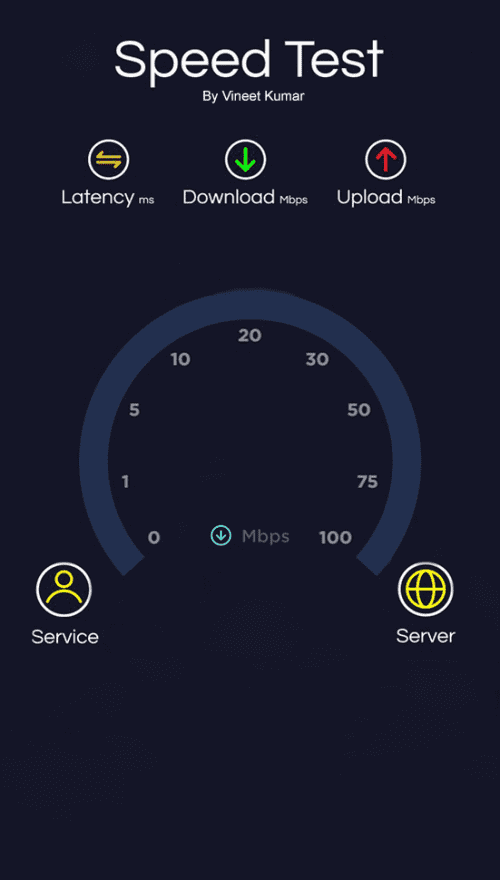
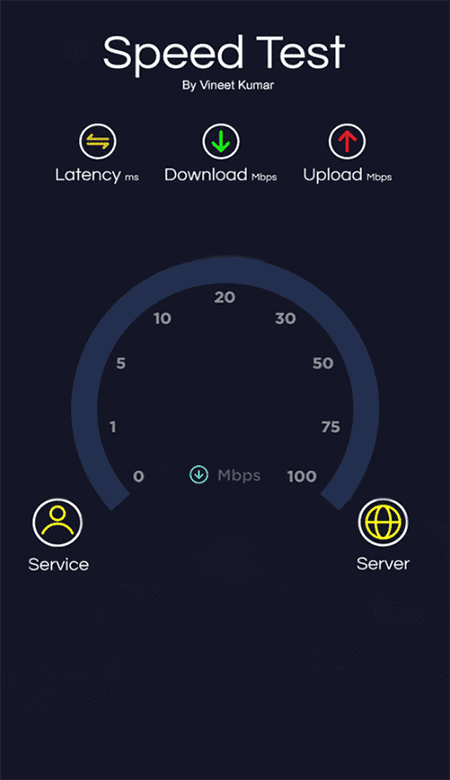
Added readme Updated dimensions

diff --git a/speed_test.py b/speed_test.py
@@ -8,8 +8,8 @@ root.resizable(False, False)  # can't rescale the window
 root.configure(bg="#141527")  # set dark background color
 
 # Dimensions for the Window
-w = 500
-h = 800
+w = 450
+h = 700
 
 # Code to get coordinates to place window at center
 ws = root.winfo_screenwidth()
@@ -23,7 +23,7 @@ root.geometry("%dx%d+%d+%d" % (w, h, x, y))  # place the window 'root'
 def Test():
     def run_speed_test():
 
-        Download.config(text = "Loading")
+        Download.config(text="Loading")
 
         test = speedtest.Speedtest()
         servernames = []
@@ -85,7 +85,7 @@ Test_Button = Button(
     cursor="hand2",
     command=Check,
 )
-Test_Button.place(x=148, y=580)
+Test_Button.place(x=125, y=510)
 
 Reset_Image = PhotoImage(file="./images/reset.png")
 Reset_Button = Button(
@@ -97,27 +97,28 @@ Reset_Button = Button(
     cursor="hand2",
     command=Reset,
 )
-Reset_Button.place(x=215, y=665)
+Reset_Button.place(x=190, y=600)
 
 
 # Labels to show values
 ping = Label(root, text="--", font="arial 20", bg="#141527", fg="#e9b342")
-ping.place(x=110, y=240, anchor="center")
+ping.place(x=100, y=215, anchor="center")
 
 download = Label(root, text="--", font="arial 20", bg="#141527", fg="#0cf107")
-download.place(x=250, y=240, anchor="center")
+download.place(x=225, y=215, anchor="center")
 
 upload = Label(root, text="--", font="arial 20", bg="#141527", fg="#e61c25")
-upload.place(x=390, y=240, anchor="center")
+upload.place(x=350, y=215, anchor="center")
 
 Download = Label(root, text="--", font="arial 30", bg="#141527", fg="#00FFFF")
-Download.place(x=250, y=480, anchor="center")
+Download.place(x=225, y=430, anchor="center")
 
 service = Label(root, text="- - -", font="arial 12", bg="#141527", fg="white")
-service.place(x=65, y=670, anchor="center")
+service.place(x=55, y=590, anchor="center")
 
-ip = Label(root, text="- - - - - - - -", font="arial 12", bg="#141527", fg="white")
-ip.place(x=425, y=670, anchor="center")
+ip = Label(root, text="- - - - - - - -",
+           font="arial 12", bg="#141527", fg="white")
+ip.place(x=380, y=590, anchor="center")
 
 
 root.mainloop()

diff --git a/README.md b/README.md
@@ -1,0 +1,89 @@
+# Internet Speed Test - Python Application
+
+Test and monitor your internet speed with this Python application. Check your ping, download, and upload speeds easily. Get started quickly with this simple tool.
+
+![Internet Speed Test](https://drive.google.com/uc?id=1TlFnkX_u3q1OB2WsZ2ZzqxsVIdO03YV6)
+
+## Table of Contents
+
+- [Introduction](#introduction)
+- [Features](#features)
+- [Getting Started](#getting-started)
+- [Usage](#usage)
+- [Technologies Used](#technologies-used)
+- [Contributing](#contributing)
+
+## Introduction
+
+The Internet Speed Test Python application allows you to check your internet connection's performance quickly. It measures your ping, download, and upload speeds, helping you ensure that your internet is running at its best.
+
+## Features
+
+- Measure your ping, download, and upload speeds.
+- Easy-to-use interface for quick speed checks.
+
+## Getting Started
+
+To get started with this project, follow these steps:
+
+### Prerequisites
+
+- Python installed on your system.
+- Required Python library: Speedtest-cli.
+
+### Installation
+
+### 1. Get Source Code Files
+#### Option 1: Clone Repository
+
+- If you have Git installed, you can clone the repository using the following command:
+
+  ```bash
+  git clone https://github.com/your-username/Internet-Speed-Test.git
+  ```
+
+- After cloning, navigate to the project directory:
+
+  ```bash
+  cd Internet-Speed-Test
+  ```
+
+#### Option 2: Download ZIP
+
+- If you prefer not to use Git, you can download the ZIP archive of the project:
+
+  1. Click the "Code" button on the repository page.
+  2. Choose "Download ZIP."
+  3. Extract the downloaded ZIP file to a location of your choice.
+
+### 2. Install Dependencies
+
+Install the required Python library using pip:
+
+```bash
+pip install speedtest-cli
+```
+
+## Usage
+
+1. Run the "speed_test.py" script:
+
+   ```bash
+   python speed_test.py
+   ```
+
+2. Click the "Test Speed" button to check your internet speed.
+3. The application will display your ping, download, and upload speeds.
+
+## Technologies Used
+
+- Python
+- Speedtest-cli
+
+## Contributing
+
+Contributions to this project are welcome. If you have any suggestions, enhancements, or bug fixes, please open an issue or submit a pull request.
+
+**Note:** This project is for educational and demonstration purposes. Results may vary based on your internet connection and network conditions.
+
+Feel free to use this template for your projects.
